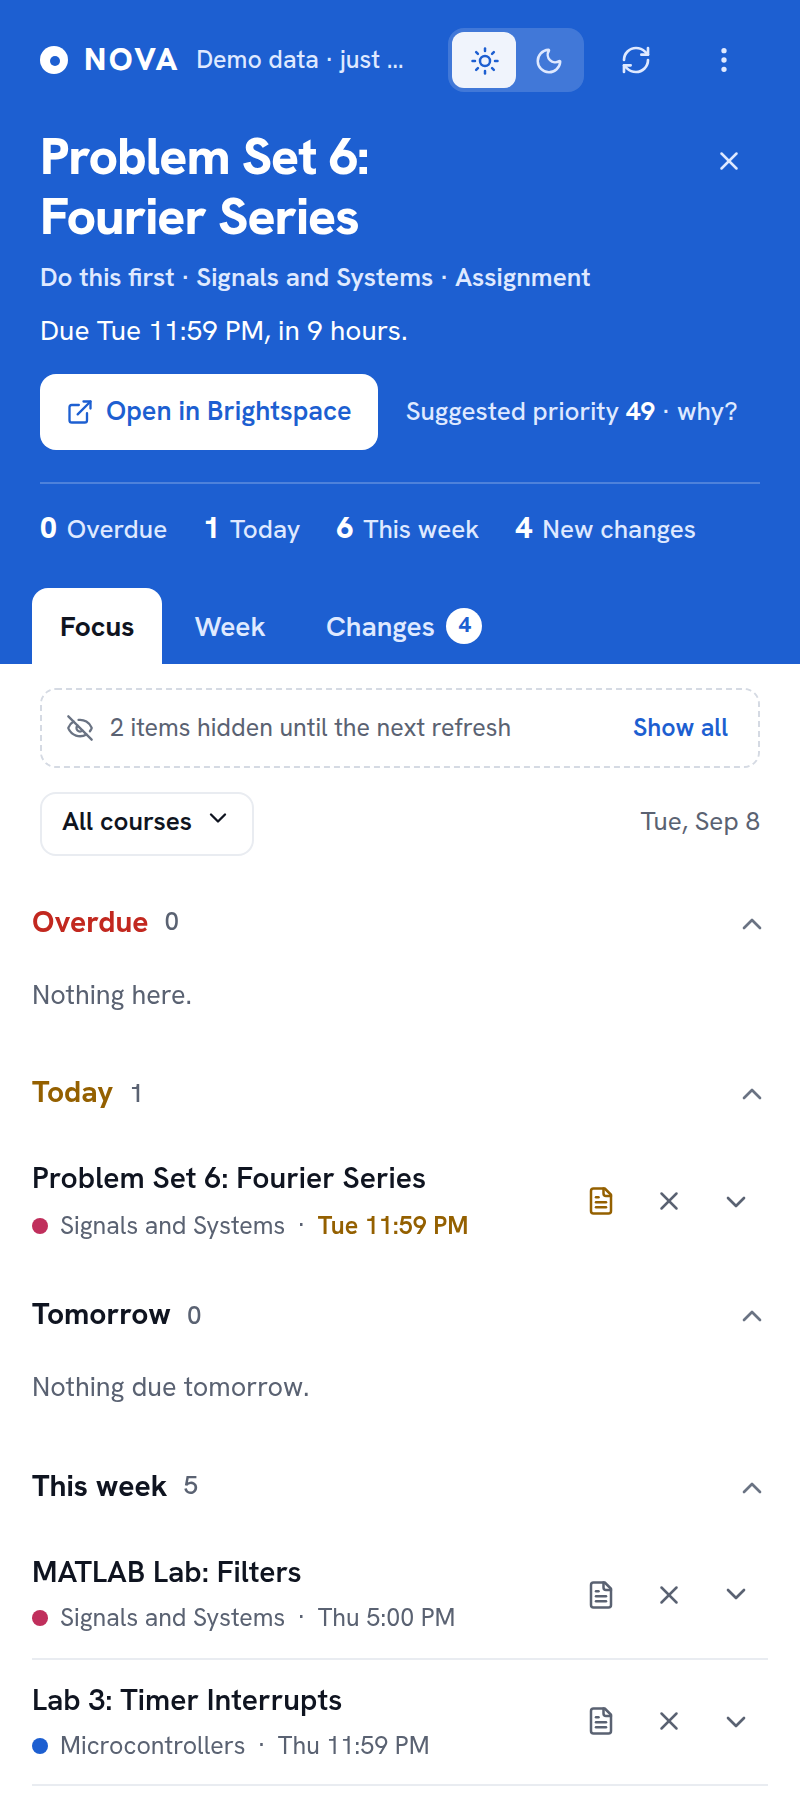
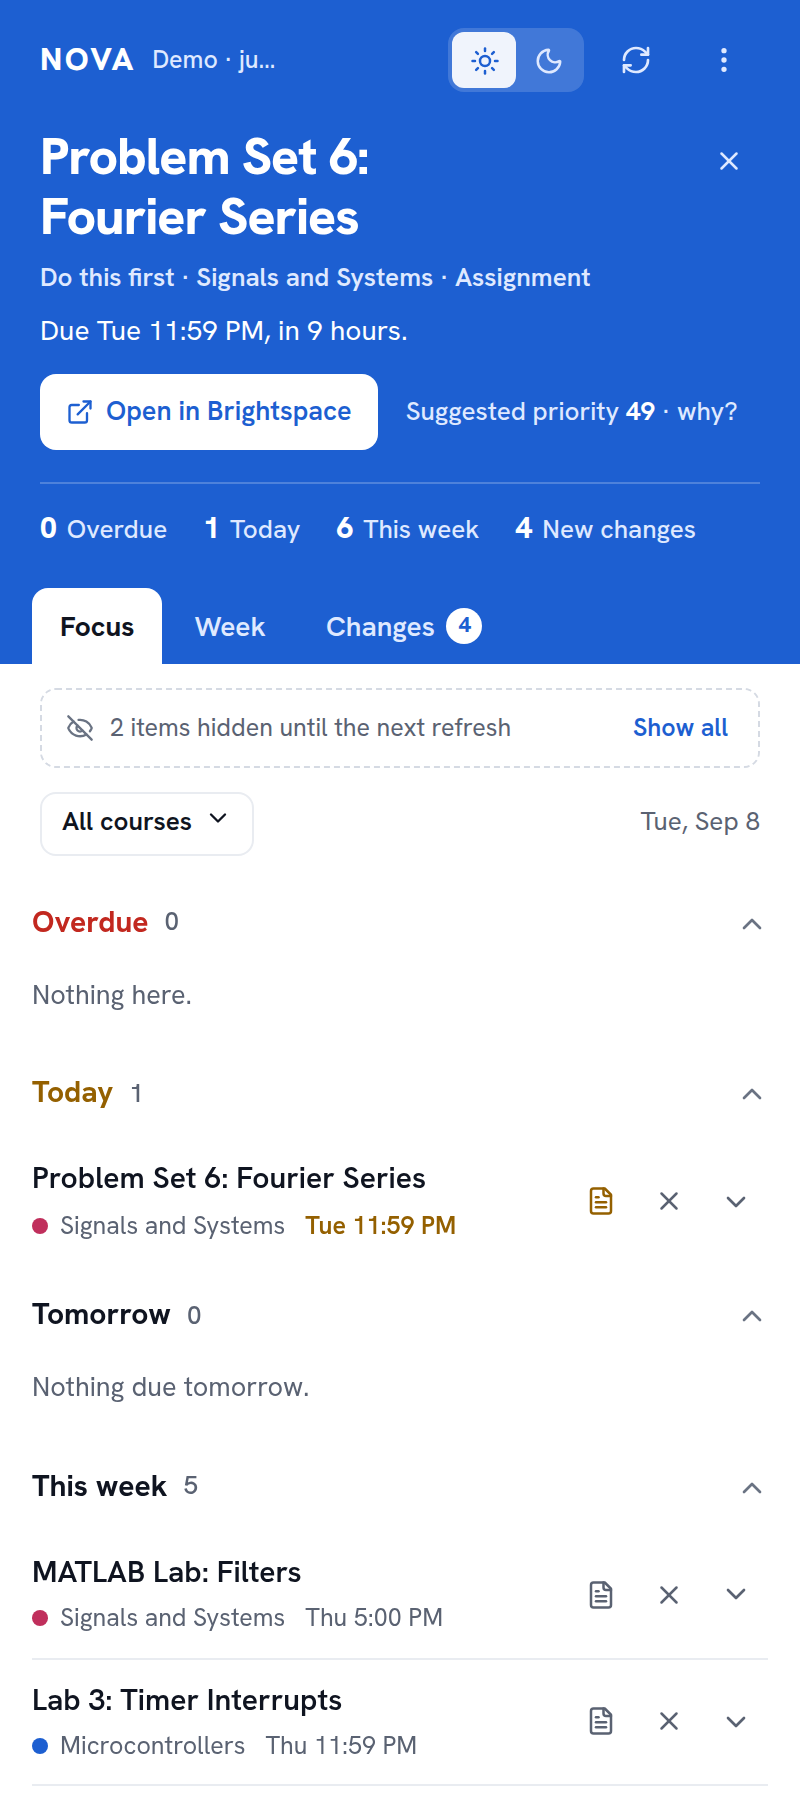
fix(extension): review round two: no orphaned separator on wrap, freshness room at 360 px, unread by weight
Claude-Session: https://claude.ai/code/session_01S3WW9YeRyY937cNbjwGNCi

diff --git a/apps/extension/src/sidepanel/styles.css b/apps/extension/src/sidepanel/styles.css
@@ -128,10 +128,8 @@ h1, h2, h3, h4, p { margin: 0; }
 /* The field */
 .field { position: sticky; top: 0; z-index: 5; display: flex; flex-direction: column; gap: 16px; padding: 12px 20px 0; background: var(--nova-field); color: var(--nova-field-ink); }
 .field-top { display: flex; align-items: center; gap: 8px; min-height: 32px; }
-.wordmark { display: inline-flex; align-items: center; gap: 8px; font-size: 16px; font-weight: 800; letter-spacing: 0.08em; }
-.mark { width: 14px; height: 14px; border-radius: 50%; background: var(--nova-field-ink); display: grid; place-items: center; }
-.mark::after { content: ""; width: 5px; height: 5px; border-radius: 50%; background: var(--nova-field); }
-.freshness { font-size: 12.5px; font-weight: 500; color: var(--nova-field-muted); white-space: nowrap; overflow: hidden; text-overflow: ellipsis; }
+.wordmark { font-size: 16px; font-weight: 800; letter-spacing: 0.08em; }
+.freshness { flex: 1; min-width: 0; font-size: 12.5px; font-weight: 500; color: var(--nova-field-muted); white-space: nowrap; overflow: hidden; text-overflow: ellipsis; }
 .freshness[data-tone="syncing"] { animation: pulse 1.2s ease-in-out infinite; }
 .field .icon-button { color: var(--nova-field-muted); }
 .field .icon-button:hover:not(:disabled) { background: var(--nova-field-chip); color: var(--nova-field-ink); }
@@ -229,7 +227,8 @@ h1, h2, h3, h4, p { margin: 0; }
 .task-row { display: grid; grid-template-columns: 1fr auto; align-items: center; gap: 8px; min-height: 56px; padding: 10px 0; }
 .task-main { display: flex; flex-direction: column; gap: 3px; min-width: 0; }
 .task-title { font-size: 15px; font-weight: 600; overflow: hidden; text-overflow: ellipsis; white-space: nowrap; }
-.task-sub { display: flex; flex-wrap: wrap; align-items: center; gap: 2px 6px; font-size: 12.5px; color: var(--nova-muted); min-width: 0; }
+.task-sub { display: flex; flex-wrap: wrap; align-items: center; gap: 2px 10px; font-size: 12.5px; color: var(--nova-muted); min-width: 0; }
+.task-course { display: inline-flex; align-items: center; gap: 6px; }
 .task-sub .due { white-space: nowrap; }
 .task-sub .due[data-tone="overdue"] { color: var(--nova-overdue); font-weight: 600; }
 .task-sub .due[data-tone="today"] { color: var(--nova-today); font-weight: 600; }
@@ -310,8 +309,8 @@ h1, h2, h3, h4, p { margin: 0; }
 .signal-icon[data-tone="mint"] { color: var(--nova-done); }
 .signal-main { min-width: 0; display: flex; flex-direction: column; gap: 3px; }
 .signal-verb { display: flex; align-items: center; gap: 6px; font-weight: 600; font-size: 14px; }
-.signal[data-unread="true"] .signal-verb { font-weight: 700; }
-.signal[data-unread="true"] .signal-verb > span:first-child { color: var(--nova-accent); }
+.signal[data-unread="true"] .signal-verb { font-weight: 700; color: var(--nova-ink); }
+.signal[data-unread="false"] .signal-verb > span:first-child { font-weight: 600; color: var(--nova-muted); }
 .signal-verb .course-name { font-weight: 500; color: var(--nova-muted); overflow: hidden; text-overflow: ellipsis; white-space: nowrap; }
 .signal-body { font-size: 14px; line-height: 1.4; }
 .signal-body .arrow { color: var(--nova-faint); margin: 0 4px; }

diff --git a/apps/extension/src/sidepanel/components/FieldHeader.tsx b/apps/extension/src/sidepanel/components/FieldHeader.tsx
@@ -15,7 +15,7 @@ export const freshness = (mode: "live" | "fixture", phase: SyncPhase, lastSucces
   if (isRunningPhase(phase)) return { label: "Refreshing", tone: "syncing", text: "Refreshing…" };
   if (phase === "idle") return { label: "Not connected", tone: "idle", text: "Not connected" };
   const broken = phase === "session-expired" || phase === "permission-required" || phase === "offline" || phase === "failed";
-  if (mode === "fixture") return { label: "Demo data", tone: "demo", text: `Demo data · ${age}` };
+  if (mode === "fixture") return { label: "Demo data", tone: "demo", text: `Demo · ${age}` };
   if (broken) return { label: "Disconnected", tone: "error", text: `Disconnected · ${age}` };
   return { label: "Live", tone: "live", text: `${stale ? "Stale" : "Live"} · ${age}` };
 };
@@ -37,10 +37,7 @@ export type FieldHeaderProps = {
 export const FieldHeader = ({ freshness: fresh, theme, onThemeChange, onRefresh, refreshing, refreshDisabled, menu, hero, counts, tabs }: FieldHeaderProps) => (
   <header className="field">
     <div className="field-top">
-      <span className="wordmark">
-        <span className="mark" aria-hidden="true" />
-        NOVA
-      </span>
+      <span className="wordmark">NOVA</span>
       <span className="freshness" data-tone={fresh.tone} role="status" aria-label={`Connection: ${fresh.label}`}>
         {fresh.text}
       </span>

diff --git a/apps/extension/src/sidepanel/components/DeadlineSections.tsx b/apps/extension/src/sidepanel/components/DeadlineSections.tsx
@@ -97,9 +97,10 @@ const TaskRow = ({ item, bucket, dashboard, now, expandedKey, onExpand, canOpen,
             {item.title}
           </span>
           <span className="task-sub">
-            <span className="course-dot" style={{ background: course ? courseSwatch(course.color) : undefined }} aria-hidden="true" />
-            <span className="task-course">{course?.name ?? "Unknown course"}</span>
-            <span aria-hidden="true">·</span>
+            <span className="task-course">
+              <span className="course-dot" style={{ background: course ? courseSwatch(course.color) : undefined }} aria-hidden="true" />
+              {course?.name ?? "Unknown course"}
+            </span>
             <span className="due" data-tone={dueTone}>
               {when}
             </span>
